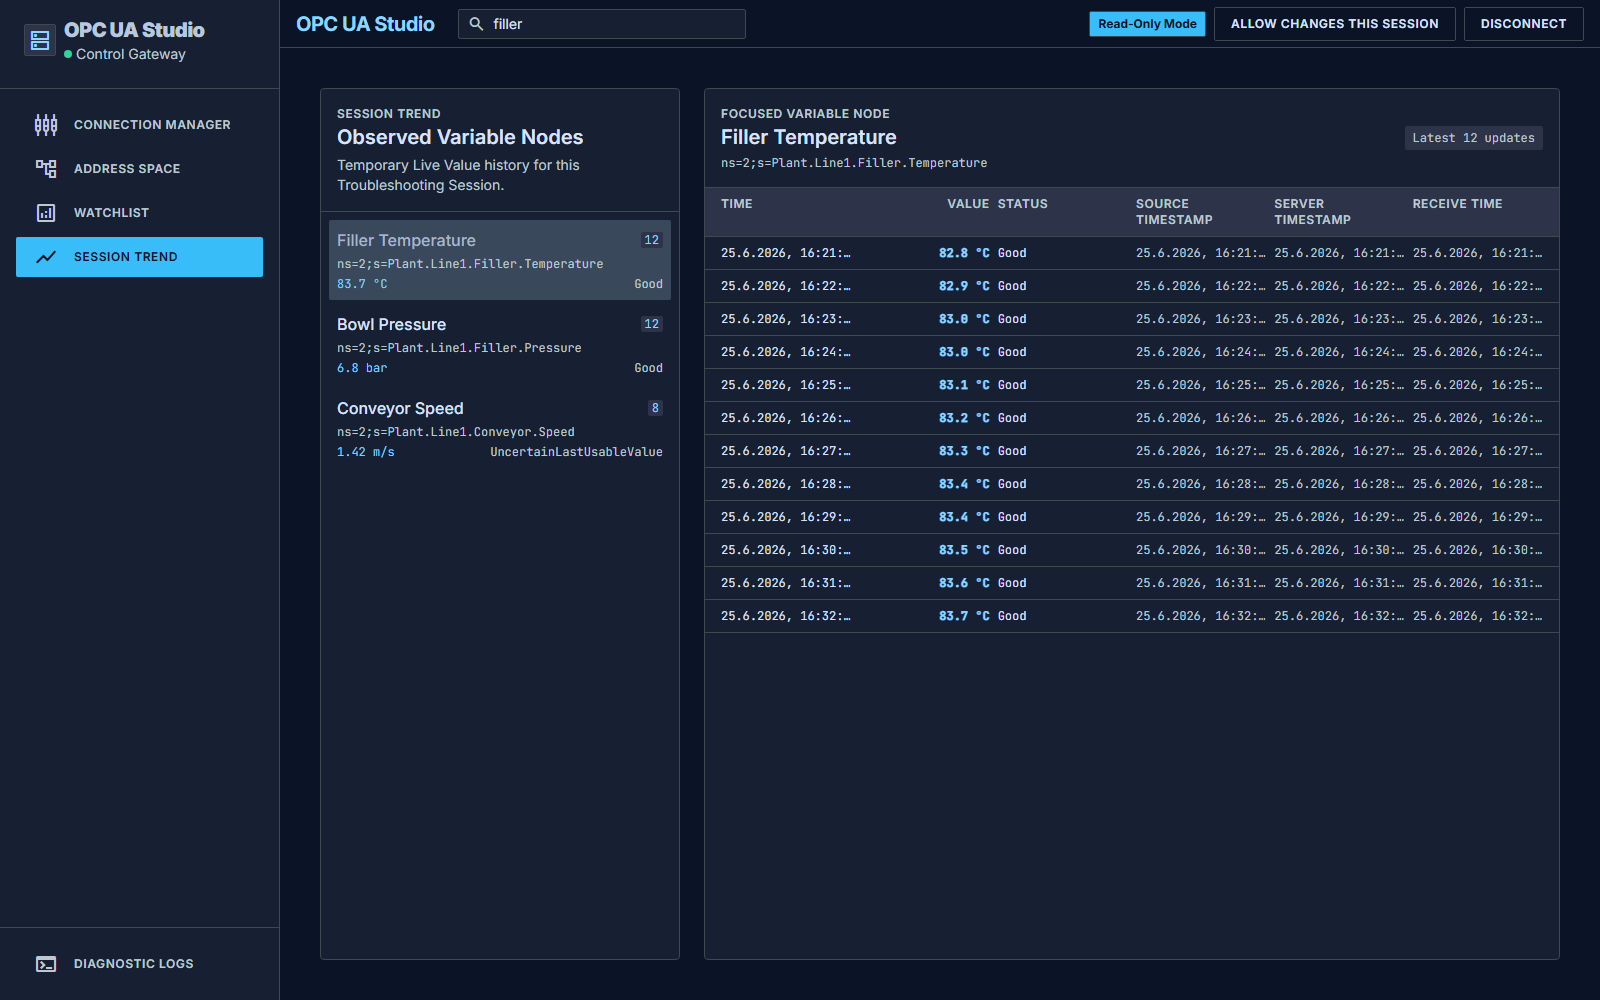
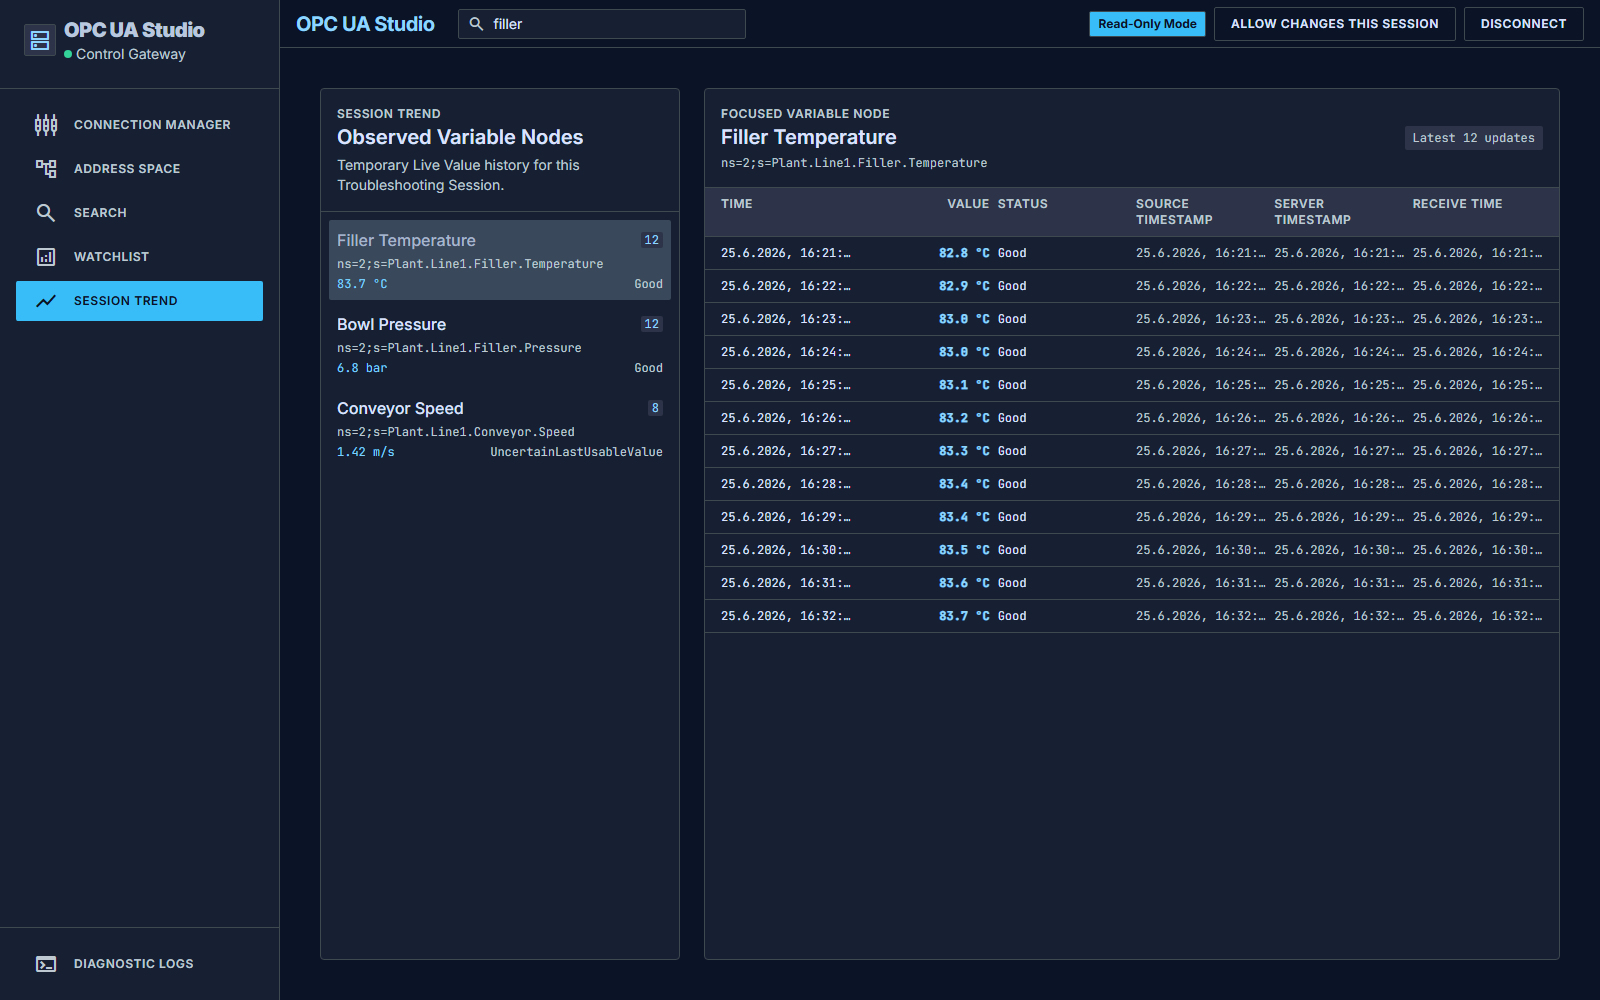
feat(frontend): move search into dedicated screen (#59)
* feat(frontend): move search into dedicated screen

* chore(frontend): refresh generated bindings

Changed region(s): [[0.0, 0.186, 0.1875, 0.341]]

diff --git a/frontend/src/App.svelte b/frontend/src/App.svelte
@@ -1,12 +1,12 @@
 <script lang="ts">
-  import { onMount } from 'svelte'
+  import { onMount, tick } from 'svelte'
   import { BrowseChildren, ClearVariableNodeInspection, Connect, DeleteSavedConnection, Disconnect, DiscoverEndpoints, GetDiagnosticLogs, GetSavedConnections, GetSessionSafety, GetSessionTrend, GetWatchlist, InspectVariableNode, PickClientCertificate, PickClientPrivateKey, RefreshVariableNodeValue, SaveSavedConnection, SearchAddressSpace, SetReadOnlyMode, UnwatchVariableNode, WatchVariableNode, WriteVariableNodeValue } from '../wailsjs/go/main/App.js'
   import { EventsOn } from '../wailsjs/runtime/runtime.js'
   import MethodCallPanel from './MethodCallPanel.svelte'
   import { isSupportedScalarDataType, parseScalarInputError } from './scalarInput'
   import { getReadmeScreenshotState } from './readmeScreenshots'
 
-  type Tab = 'connections' | 'address-space' | 'watchlist' | 'session-trend' | 'logs'
+  type Tab = 'connections' | 'address-space' | 'search' | 'watchlist' | 'session-trend' | 'logs'
   type AuthType = 'Anonymous' | 'UserName'
 
   type Endpoint = {
@@ -193,6 +193,7 @@
   let searchView: AddressSpaceSearchView = (readmeScreenshotState?.searchView as AddressSpaceSearchView) ?? { query: '', results: [], status: 'Connect to an OPC UA Server to search browsed Address Space metadata.' }
   let searching = false
   let searchDebounce: ReturnType<typeof setTimeout> | null = null
+  let searchInput: HTMLInputElement | null = null
   let refreshingNodeID = ''
   let writeTargetValue = ''
   let writeSubmitting = false
@@ -520,7 +521,15 @@
     searchDebounce = null
   }
 
+  async function openSearchFromSidebar() {
+    activeTab = 'search'
+    if (!connected) return
+    await tick()
+    searchInput?.focus()
+  }
+
   function queueAddressSpaceSearch() {
+    activeTab = 'search'
     if (searchDebounce) clearTimeout(searchDebounce)
     searchDebounce = setTimeout(() => {
       void runAddressSpaceSearch()
@@ -862,6 +871,9 @@
       <button class={navButtonClass(activeTab === 'address-space')} on:click={() => (activeTab = 'address-space')}>
         <span class="material-symbols-outlined">account_tree</span><span class="label text-current">Address Space</span>
       </button>
+      <button aria-label="Search" class={navButtonClass(activeTab === 'search')} on:click={openSearchFromSidebar}>
+        <span class="material-symbols-outlined">search</span><span class="label text-current">Search</span>
+      </button>
       <button class={navButtonClass(activeTab === 'watchlist')} on:click={() => (activeTab = 'watchlist')}>
         <span class="material-symbols-outlined">analytics</span><span class="label text-current">Watchlist</span>
       </button>
@@ -883,7 +895,7 @@
         <span class="text-xl font-bold tracking-tight text-primary">OPC UA Studio</span>
         <div class="hidden w-72 items-center rounded border border-outline-variant bg-surface-container px-sm py-xs md:flex">
           <span class="material-symbols-outlined mr-sm text-[18px] text-on-surface-variant">search</span>
-          <input class="w-full bg-transparent text-sm outline-none placeholder:text-on-surface-variant" placeholder="Search Address Space..." bind:value={searchQuery} on:input={queueAddressSpaceSearch} on:focus={() => (activeTab = 'address-space')} />
+          <input aria-label="Search Address Space from header" class="w-full bg-transparent text-sm outline-none placeholder:text-on-surface-variant" placeholder="Search Address Space..." bind:value={searchQuery} disabled={!connected} on:input={queueAddressSpaceSearch} on:focus={() => (activeTab = 'search')} />
         </div>
       </div>
       <div class="flex items-center gap-sm">
@@ -1036,8 +1048,11 @@
             </div>
           {/if}
         </section>
-      {:else if activeTab === 'address-space'}
-        <section class="grid h-full min-h-[600px] gap-lg xl:grid-cols-[minmax(240px,0.8fr)_minmax(280px,0.95fr)_minmax(360px,1.25fr)]">
+      {:else if activeTab === 'address-space' || activeTab === 'search'}
+        <section class={activeTab === 'address-space'
+          ? 'grid h-full min-h-[600px] gap-lg xl:grid-cols-[360px_minmax(0,1fr)]'
+          : 'grid h-full min-h-[600px] gap-lg xl:grid-cols-[minmax(420px,0.9fr)_minmax(480px,1.1fr)]'}>
+          {#if activeTab === 'address-space'}
           <div class="panel flex min-h-0 flex-col overflow-hidden">
             <div class="flex items-center justify-between border-b border-outline-variant p-md">
               <div><p class="label">Address Space</p><h2 class="text-xl font-semibold">Objects</h2></div>
@@ -1066,6 +1081,7 @@
             </div>
           </div>
 
+          {:else}
           <div class="panel flex min-h-0 flex-col overflow-hidden">
             <div class="border-b border-outline-variant p-md">
               <p class="label">Search</p>
@@ -1073,18 +1089,21 @@
               <p class="mt-xs text-sm text-on-surface-variant">Search browsed metadata: DisplayName, BrowseName, NodeID, and NodeClass.</p>
               <div class="relative mt-md">
                 <span class="material-symbols-outlined absolute left-md top-1/2 -translate-y-1/2 text-on-surface-variant">search</span>
-                <input class="field w-full py-md pl-[48px] text-base" placeholder="Search Address Space…" bind:value={searchQuery} on:input={queueAddressSpaceSearch} />
+                <input bind:this={searchInput} aria-label="Search Address Space" class="field w-full py-md pl-[48px] text-base" placeholder="Search Address Space…" bind:value={searchQuery} disabled={!connected} on:input={queueAddressSpaceSearch} />
               </div>
             </div>
             <div class="min-h-0 flex-1 overflow-auto p-md">
-              {#if searching}
-                <div class="mb-md text-sm text-primary">Searching…</div>
-              {/if}
+              <div role="status" aria-live="polite">
+                {#if searching}
+                  <div class="mb-md text-sm text-primary">Searching…</div>
+                {/if}
+                <p class="mb-md text-sm text-on-surface-variant">{searchView.status}</p>
+              </div>
               {#if searchView.results.length === 0}
                 <div class="flex min-h-[260px] items-center justify-center rounded border border-dashed border-outline-variant bg-surface-container-low p-lg text-center text-on-surface-variant">
                   <div>
                     <span class="material-symbols-outlined text-3xl text-primary">manage_search</span>
-                    <p class="mt-sm">{searchView.status}</p>
+                    <p class="mt-sm">No Search Results</p>
                     {#if connected}<p class="mt-xs text-xs">Browse the tree to add more Address Space metadata to Search.</p>{/if}
                   </div>
                 </div>
@@ -1121,6 +1140,7 @@
               {/if}
             </div>
           </div>
+          {/if}
 
           <div class="panel flex min-h-0 flex-col overflow-hidden">
             <div class="flex items-center justify-between gap-md border-b border-outline-variant p-md">
@@ -1193,15 +1213,15 @@
                 {#if inspection.outOfRange}<div class="mt-md rounded border border-tertiary-container bg-tertiary-container/10 p-md text-tertiary">Out-of-Range: {inspection.outOfRange}</div>{/if}
                 {#if inspection.error}<div class="mt-md rounded border border-error-container bg-error-container/20 p-md text-error">{inspection.error}</div>{/if}
                 <div class="mt-lg grid gap-md lg:grid-cols-2">
-                  <div class="space-y-sm">
+                  <div class="min-w-0 space-y-sm">
                     <p class="label">Metadata</p>
                     <dl class="space-y-xs text-sm">
-                      <div class="flex justify-between gap-md"><dt class="text-on-surface-variant">NodeId</dt><dd class="font-mono">{inspection.node.NodeID}</dd></div>
-                      <div class="flex justify-between gap-md"><dt class="text-on-surface-variant">BrowseName</dt><dd class="font-mono">{inspection.node.BrowseName}</dd></div>
-                      <div class="flex justify-between gap-md"><dt class="text-on-surface-variant">Data Type</dt><dd>{inspection.details?.DataType || '—'}</dd></div>
-                      <div class="flex justify-between gap-md"><dt class="text-on-surface-variant">AccessLevel</dt><dd>{inspection.details?.AccessLevel || '—'}</dd></div>
-                      <div class="flex justify-between gap-md"><dt class="text-on-surface-variant">UserAccessLevel</dt><dd>{inspection.details?.UserAccessLevelAvailable ? inspection.details.UserAccessLevel : '—'}</dd></div>
-                      <div class="flex justify-between gap-md"><dt class="text-on-surface-variant">Engineering Unit</dt><dd>{inspection.details?.EngineeringUnit || '—'}</dd></div>
+                      <div class="flex items-start justify-between gap-md"><dt class="shrink-0 text-on-surface-variant">NodeId</dt><dd class="min-w-0 break-all text-right font-mono">{inspection.node.NodeID}</dd></div>
+                      <div class="flex items-start justify-between gap-md"><dt class="shrink-0 text-on-surface-variant">BrowseName</dt><dd class="min-w-0 break-all text-right font-mono">{inspection.node.BrowseName}</dd></div>
+                      <div class="flex items-start justify-between gap-md"><dt class="shrink-0 text-on-surface-variant">Data Type</dt><dd class="min-w-0 break-words text-right">{inspection.details?.DataType || '—'}</dd></div>
+                      <div class="flex items-start justify-between gap-md"><dt class="shrink-0 text-on-surface-variant">AccessLevel</dt><dd class="min-w-0 break-words text-right">{inspection.details?.AccessLevel || '—'}</dd></div>
+                      <div class="flex items-start justify-between gap-md"><dt class="shrink-0 text-on-surface-variant">UserAccessLevel</dt><dd class="min-w-0 break-words text-right">{inspection.details?.UserAccessLevelAvailable ? inspection.details.UserAccessLevel : '—'}</dd></div>
+                      <div class="flex items-start justify-between gap-md"><dt class="shrink-0 text-on-surface-variant">Engineering Unit</dt><dd class="min-w-0 break-words text-right">{inspection.details?.EngineeringUnit || '—'}</dd></div>
                     </dl>
                   </div>
                   <div class="space-y-sm">
@@ -1213,8 +1233,10 @@
                     </dl>
                   </div>
                 </div>
+              {:else if selectedNodeID}
+                <div class="flex h-full items-center justify-center p-lg text-center text-on-surface-variant">Object Nodes do not provide Variable Node Inspection or Method Call details.</div>
               {:else}
-                <div class="flex h-full items-center justify-center text-center text-on-surface-variant">Select a Variable Node or Method Node from the Address Space to inspect it.</div>
+                <div class="flex h-full items-center justify-center p-lg text-center text-on-surface-variant">Select a Variable Node or Method Node to inspect it.</div>
               {/if}
             </div>
           </div>

diff --git a/frontend/src/readmeScreenshots.ts b/frontend/src/readmeScreenshots.ts
@@ -1,4 +1,4 @@
-type Tab = 'connections' | 'address-space' | 'watchlist' | 'session-trend' | 'logs'
+type Tab = 'connections' | 'address-space' | 'search' | 'watchlist' | 'session-trend' | 'logs'
 
 type AddressNode = {
   ParentNodeID?: string
@@ -142,6 +142,14 @@ const methodSearchResults = [{
   score: 100
 }]
 
+const objectSearchResults = [{
+  node: nodes.filler,
+  matchKind: 'DisplayName',
+  matchText: 'Filler Station',
+  source: 'Browsed Address Space metadata',
+  score: 100
+}]
+
 const sessionTrend = {
   nodes: [
     { node: nodes.temp, latestValue: '83.7 °C', status: 'Good', pointCount: 12 },
@@ -187,7 +195,9 @@ export function getReadmeScreenshotState(): ReadmeScreenshotState | null {
 
   const tabByRequest: Record<string, Tab> = {
     hero: 'address-space',
-    search: 'address-space',
+    search: 'search',
+    'search-object': 'search',
+    'search-disconnected': 'search',
     inspection: 'address-space',
     watchlist: 'watchlist',
     trend: 'session-trend',
@@ -201,25 +211,32 @@ export function getReadmeScreenshotState(): ReadmeScreenshotState | null {
       { id: 'control-gateway', name: 'Control Gateway', endpoint: 'opc.tcp://192.168.10.42:4840', securityPolicy: 'Basic256Sha256', securityMode: 'SignAndEncrypt', authType: 'Anonymous', serverCertificateThumbprint: '8A:91:4F:2C:67:12:EB:44', createdAt: now, updatedAt: now, lastConnectedAt: now }
     ]
 
+  const disconnectedSearch = requested === 'search-disconnected'
+  const objectSearch = requested === 'search-object'
+
   return {
     activeTab: tabByRequest[requested] || 'address-space',
-    connected: true,
+    connected: !disconnectedSearch,
     readOnlyMode: requested === 'method-call-read-only' || (!requested.startsWith('write-') && !requested.startsWith('method-call')) || requested === 'write-read-only',
-    currentConnection: 'Control Gateway',
+    currentConnection: disconnectedSearch ? '' : 'Control Gateway',
     tree,
-    selectedNodeID: requested.startsWith('method-call') ? nodes.methodIO.NodeID : nodes.temp.NodeID,
+    selectedNodeID: disconnectedSearch ? '' : objectSearch ? nodes.filler.NodeID : requested.startsWith('method-call') ? nodes.methodIO.NodeID : nodes.temp.NodeID,
     selectedMethod: requested.startsWith('method-call') ? nodes.methodIO : null,
-    inspection: requested.startsWith('method-call') ? null : inspectionForRequest(requested),
+    inspection: disconnectedSearch || objectSearch || requested.startsWith('method-call') ? null : inspectionForRequest(requested),
     confirmationInspectionUpdate: requested === 'write-confirmation-live-value-change' ? changedInspection : null,
     logs: [],
     receiveRuntimeEvents: requested === 'write-feedback-events' || requested === 'method-call-events',
     watchlist,
     sessionTrend,
     focusedTrendNodeID: nodes.temp.NodeID,
-    searchQuery: requested === 'connections' ? '' : requested.startsWith('method-call') ? 'method' : 'filler',
-    searchView: requested.startsWith('method-call')
-      ? { query: 'method', results: methodSearchResults as typeof searchResults, status: '1 Search Result found in browsed Address Space metadata.' }
-      : { query: 'filler', results: searchResults, status: '3 Search Results found in browsed Address Space metadata.' },
+    searchQuery: disconnectedSearch || requested === 'connections' ? '' : requested.startsWith('method-call') ? 'method' : 'filler',
+    searchView: disconnectedSearch
+      ? { query: '', results: [], status: 'Connect to an OPC UA Server to search browsed Address Space metadata.' }
+      : objectSearch
+        ? { query: 'filler', results: objectSearchResults as typeof searchResults, status: '1 Search Result found in browsed Address Space metadata.' }
+        : requested.startsWith('method-call')
+          ? { query: 'method', results: methodSearchResults as typeof searchResults, status: '1 Search Result found in browsed Address Space metadata.' }
+          : { query: 'filler', results: searchResults, status: '3 Search Results found in browsed Address Space metadata.' },
     savedConnections,
     endpoints: [
       { URL: 'opc.tcp://192.168.10.42:4840', SecurityPolicy: 'Basic256Sha256', SecurityMode: 'SignAndEncrypt', SecurityLevel: 3, UserTokenTypes: ['Anonymous', 'UserName'], ServerThumbprint: '8A:91:4F:2C:67:12:EB:44' },

diff --git a/frontend/tests/ui/search-screen.spec.ts b/frontend/tests/ui/search-screen.spec.ts
@@ -1,0 +1,61 @@
+import { expect, test } from 'playwright/test'
+
+test('Search is a dedicated sidebar screen and preserves shared inspection state', async ({ page }) => {
+  await page.goto('/?screenshot=hero')
+
+  const sidebar = page.locator('aside')
+  const labels = await sidebar.locator('nav button').allTextContents()
+  expect(labels.findIndex(label => label.includes('Search'))).toBe(labels.findIndex(label => label.includes('Address Space')) + 1)
+
+  await sidebar.getByRole('button', { name: 'Search', exact: true }).click()
+
+  await expect(page.getByRole('heading', { name: 'Address Space Search' })).toBeVisible()
+  await expect(page.getByLabel('Search Address Space', { exact: true })).toBeFocused()
+  await expect(page.getByText('3 Search Results found in browsed Address Space metadata.')).toBeVisible()
+  await expect(page.getByRole('heading', { name: 'Filler Temperature', level: 2 })).toBeVisible()
+  await expect(page.getByRole('heading', { name: 'Objects', level: 2 })).toHaveCount(0)
+
+  await sidebar.getByRole('button', { name: /Address Space$/ }).click()
+  await expect(page.getByRole('heading', { name: 'Objects', level: 2 })).toBeVisible()
+  await expect(page.getByRole('heading', { name: 'Filler Temperature', level: 2 })).toBeVisible()
+  await expect(page.getByRole('heading', { name: 'Address Space Search' })).toHaveCount(0)
+})
+
+test('the header Search field opens Search and shares its query', async ({ page }) => {
+  await page.addInitScript(() => {
+    const testWindow = window as typeof window & { go: unknown }
+    testWindow.go = { main: { App: {
+      SearchAddressSpace: (query: string) => Promise.resolve({ query, results: [], status: `Search complete for ${query}` })
+    } } }
+  })
+  await page.goto('/?screenshot=hero')
+
+  const headerSearch = page.getByLabel('Search Address Space from header')
+  await headerSearch.focus()
+
+  await expect(page.getByRole('heading', { name: 'Address Space Search' })).toBeVisible()
+  await expect(headerSearch).toBeFocused()
+  await expect(page.getByLabel('Search Address Space', { exact: true })).toHaveValue('filler')
+
+  await headerSearch.fill('pressure')
+  await expect(page.getByLabel('Search Address Space', { exact: true })).toHaveValue('pressure')
+  await expect(page.getByRole('status')).toContainText('Search complete for pressure')
+})
+
+test('Search remains navigable but its inputs are disabled while disconnected', async ({ page }) => {
+  await page.goto('/?screenshot=search-disconnected')
+
+  await expect(page.getByRole('heading', { name: 'Address Space Search' })).toBeVisible()
+  await expect(page.getByLabel('Search Address Space from header')).toBeDisabled()
+  await expect(page.getByLabel('Search Address Space', { exact: true })).toBeDisabled()
+  await expect(page.getByText('Connect to an OPC UA Server to search browsed Address Space metadata.')).toBeVisible()
+  await expect(page.locator('aside').getByRole('button', { name: 'Search', exact: true })).toBeEnabled()
+})
+
+test('an Object Search Result explains that no inspection panel is available', async ({ page }) => {
+  await page.goto('/?screenshot=search-object')
+
+  await expect(page.getByRole('heading', { name: 'Address Space Search' })).toBeVisible()
+  await expect(page.getByText('Filler Station', { exact: true }).first()).toBeVisible()
+  await expect(page.getByText('Object Nodes do not provide Variable Node Inspection or Method Call details.')).toBeVisible()
+})

diff --git a/frontend/wailsjs/go/models.ts b/frontend/wailsjs/go/models.ts
@@ -116,11 +116,11 @@ export namespace main {
 	    objectNodeID: string;
 	    methodNodeID: string;
 	    inputArguments: string[];
-
+	
 	    static createFrom(source: any = {}) {
 	        return new MethodCallRequest(source);
 	    }
-
+	
 	    constructor(source: any = {}) {
 	        if ('string' === typeof source) source = JSON.parse(source);
 	        this.objectNodeID = source["objectNodeID"];
@@ -131,11 +131,11 @@ export namespace main {
 	export class MethodNodeRequest {
 	    objectNodeID: string;
 	    methodNodeID: string;
-
+	
 	    static createFrom(source: any = {}) {
 	        return new MethodNodeRequest(source);
 	    }
-
+	
 	    constructor(source: any = {}) {
 	        if ('string' === typeof source) source = JSON.parse(source);
 	        this.objectNodeID = source["objectNodeID"];
@@ -322,7 +322,7 @@ export namespace opcua {
 	        this.SourceTimestamp = this.convertValues(source["SourceTimestamp"], null);
 	        this.ServerTimestamp = this.convertValues(source["ServerTimestamp"], null);
 	    }
-
+	
 		convertValues(a: any, classs: any, asMap: boolean = false): any {
 		    if (!a) {
 		        return a;
@@ -349,11 +349,11 @@ export namespace opcua {
 	    Description: string;
 	    ArrayDimensions: number[];
 	    Supported: boolean;
-
+	
 	    static createFrom(source: any = {}) {
 	        return new MethodArgument(source);
 	    }
-
+	
 	    constructor(source: any = {}) {
 	        if ('string' === typeof source) source = JSON.parse(source);
 	        this.Name = source["Name"];
@@ -368,11 +368,11 @@ export namespace opcua {
 	export class MethodArgumentValue {
 	    DataType: string;
 	    Value: string;
-
+	
 	    static createFrom(source: any = {}) {
 	        return new MethodArgumentValue(source);
 	    }
-
+	
 	    constructor(source: any = {}) {
 	        if ('string' === typeof source) source = JSON.parse(source);
 	        this.DataType = source["DataType"];
@@ -383,18 +383,18 @@ export namespace opcua {
 	    StatusCode: string;
 	    InputArgumentResults: string[];
 	    OutputArguments: MethodArgumentValue[];
-
+	
 	    static createFrom(source: any = {}) {
 	        return new MethodCallResult(source);
 	    }
-
+	
 	    constructor(source: any = {}) {
 	        if ('string' === typeof source) source = JSON.parse(source);
 	        this.StatusCode = source["StatusCode"];
 	        this.InputArgumentResults = source["InputArgumentResults"];
 	        this.OutputArguments = this.convertValues(source["OutputArguments"], MethodArgumentValue);
 	    }
-
+	
 		convertValues(a: any, classs: any, asMap: boolean = false): any {
 		    if (!a) {
 		        return a;
@@ -421,11 +421,11 @@ export namespace opcua {
 	    UserExecutable: boolean;
 	    InputArguments: MethodArgument[];
 	    OutputArguments: MethodArgument[];
-
+	
 	    static createFrom(source: any = {}) {
 	        return new MethodDetails(source);
 	    }
-
+	
 	    constructor(source: any = {}) {
 	        if ('string' === typeof source) source = JSON.parse(source);
 	        this.ObjectNodeID = source["ObjectNodeID"];

diff --git a/frontend/tests/ui/method-call.spec.ts b/frontend/tests/ui/method-call.spec.ts
@@ -50,7 +50,10 @@ async function stubMethodAPI(page: Page, options: { details?: unknown; detailsEr
 async function openMethod(page: Page, source: 'tree' | 'search' = 'tree', state = 'method-call') {
   await page.goto(`/?screenshot=${state}`)
   if (source === 'tree') await page.getByRole('button', { name: 'MethodIO Method', exact: true }).click()
-  else await page.getByRole('button', { name: /^play_circle MethodIO/ }).click()
+  else {
+    await page.getByRole('button', { name: 'Search', exact: true }).click()
+    await page.getByRole('button', { name: /^play_circle MethodIO/ }).click()
+  }
   await expect(page.getByRole('heading', { name: 'MethodIO', level: 2 })).toBeVisible()
 }
 
